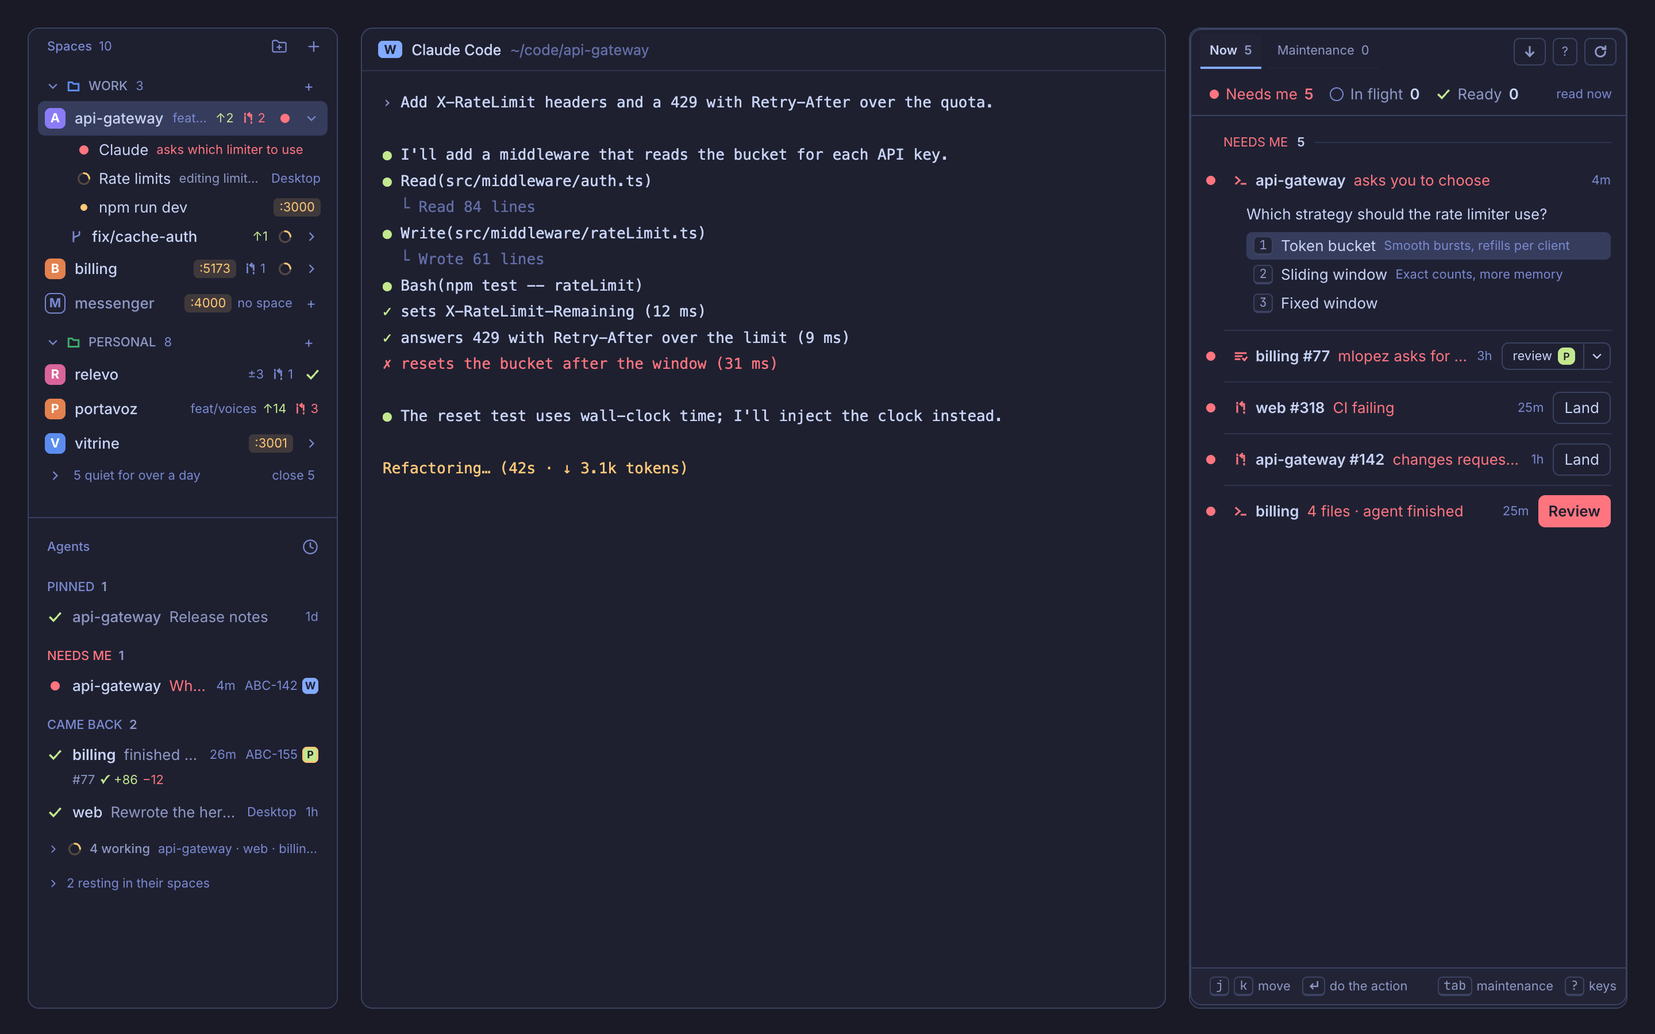
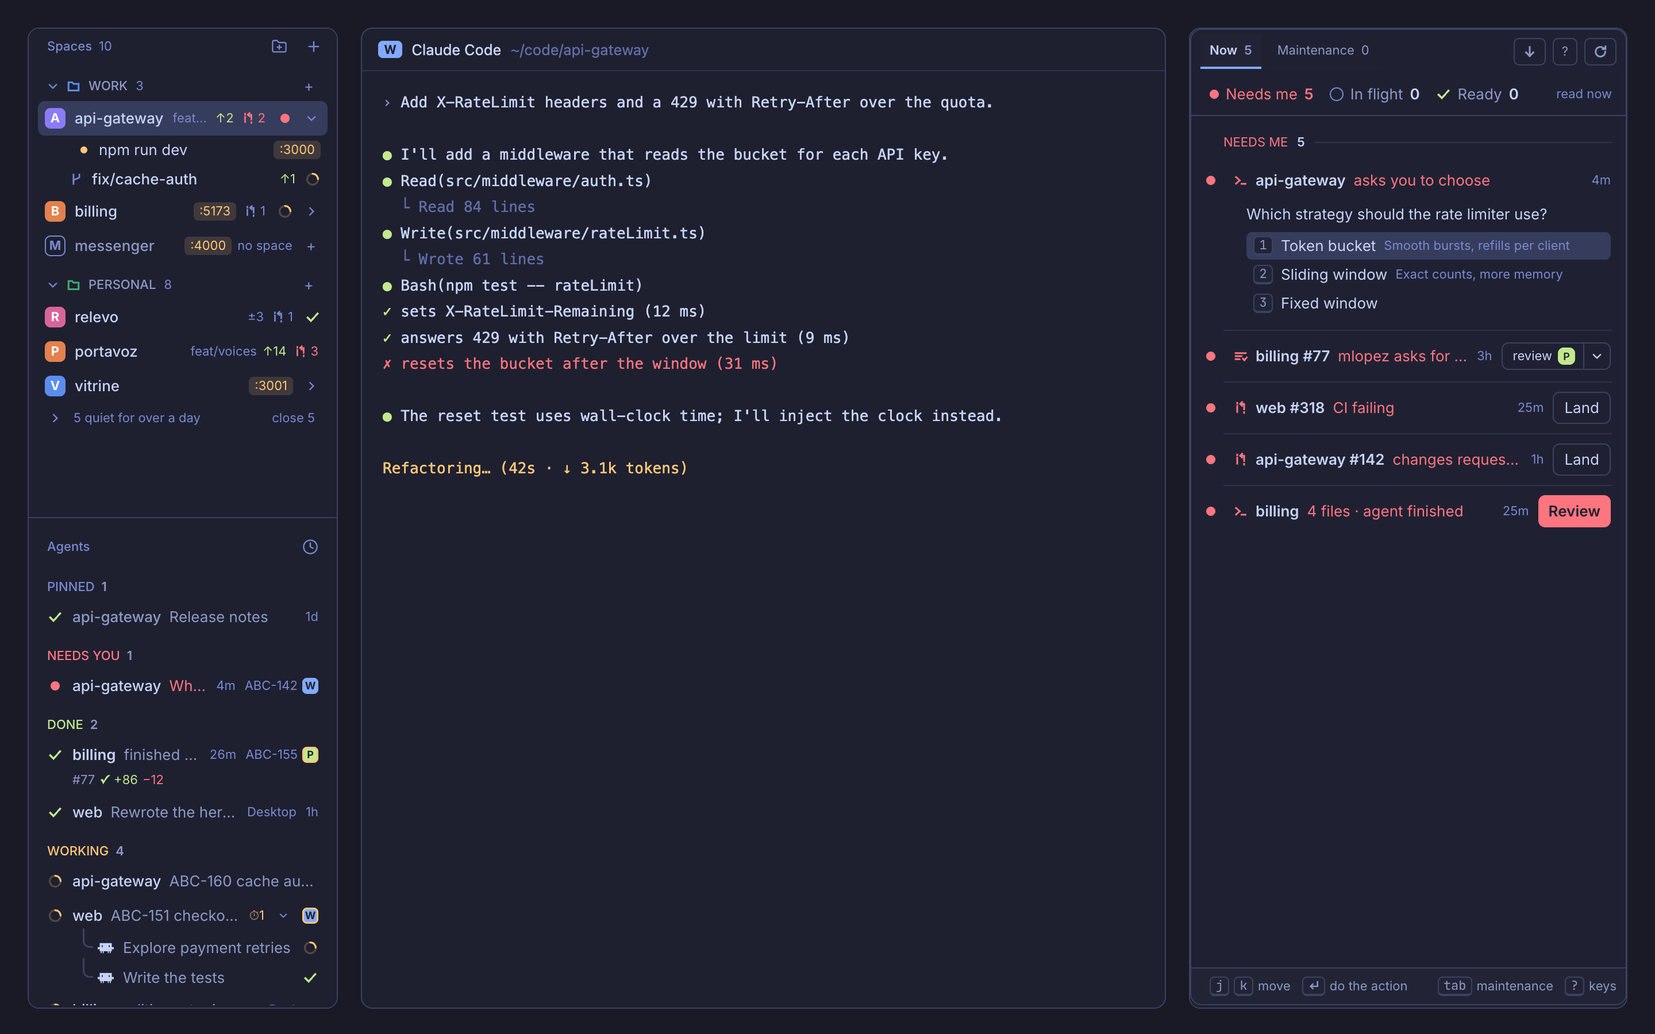
feat: Agents by state again, agents only in Agents (#86)
The priority view has one open section per Herdr state: Needs you, Done,
Working and Idle, each with its count and its state's color. Nothing folds
on its own; Settled sits last, open. Claude Desktop sessions and Claude Code
in other terminals join the section of their state.

Spaces no longer lists agents or Claude sessions: it shows terminals and
servers, and a "no space" row only for a terminal or a server. Sessions
still keep their repo's space from going quiet.

diff --git a/mods/relevo-agents/main.js b/mods/relevo-agents/main.js
@@ -121,12 +121,11 @@ const SORTS = [
   { id: "grouped", label: "Grouped by space", icon: "layers" },
 ];
 const sortOf = () => SORTS.find((s) => s.id === shared("agents.sort")) ?? SORTS[0];
-// A queue by turn: what asks, what came back and is not seen yet, then what works, folded to one line. Idle ones live in their space.
-const ME = { id: "sec-me", label: "Needs me", status: "blocked" };
-const BACK = { id: "sec-back", label: "Came back", status: null };
-const FLIGHT = { id: "sec-flight", label: "Working", status: null };
-const SECTION = { 4: ME, 3: BACK, 2: FLIGHT, 1: { id: "sec-idle", label: "Idle", status: null } };
-const OUTSIDE_SECTION = { blocked: ME.id, review: BACK.id, working: FLIGHT.id };
+// Herdr's own states, one section each; done means a result not seen yet.
+const SECTION = {
+  4: { id: "sec-me", label: "Needs you", status: "blocked" }, 3: { id: "sec-done", label: "Done", status: "done" },
+  2: { id: "sec-flight", label: "Working", status: "working" }, 1: { id: "sec-idle", label: "Idle", status: null },
+};
 // Past this share of its window an agent's context shows on its line.
 const CTX_WARN = 80;
 // Where a row's words start, past its glyph; the row's own padding and outline come before it.
@@ -227,9 +226,7 @@ function prTag(t, a, pr) {
 export default class Agents extends View {
   init(_props, cx) {
     if (props()?.sortMenu) return;
-    // Settled agents start folded away.
-    this.folded = new Set(["settled"]);
-    this.allIdle = false;
+    this.folded = new Set();
     // Each agent's last state and when it changed (ms), kept across restarts.
     this.changed = JSON.parse(localStorage.getItem("changed") ?? "{}");
     this.pendingPins = JSON.parse(localStorage.getItem("pins") ?? "[]");
@@ -326,7 +323,7 @@ export default class Agents extends View {
         .when(s.id === on, (el) => el.child(svg("mods/workspace-chrome/check.svg").size(14).flex_none().text_color(t.foreground)))));
   }
 
-  // Settled: out of the way under its own folded group until the agent works or asks again.
+  // Settled: out of the way under its own group until the agent works or asks again.
   settleButton(t, a, all, on) {
     return div()
       .id(`settle-${a.address}`)
@@ -401,50 +398,24 @@ export default class Agents extends View {
       open: s.bundle ? { label: `Show ${s.app || "the app"}`, run: () => exec("open", ["-b", s.bundle]) } : null });
   }
 
-  // Priority as a queue: Needs me, Came back (Claude Desktop and other terminals among them), what works on one
-  // line that opens, and how many rest, which live in their space.
-  queue(t, { pinned, rest, settled, desktop, elsewhere, header, withKids, rankOf, now }) {
+  // One section per state, everything shown. Claude Desktop and other terminals' sessions join the section of theirs.
+  byState(t, { pinned, rest, settled, desktop, elsewhere, header, withKids, rankOf, now }) {
     const outside = [...desktop.map((s) => ({ s, row: () => this.outsideRow(t, s, now, { prefix: "dk", where: "Desktop",
       open: { label: "Open in Claude Desktop", run: () => exec("open", [desktopLink(s.id)]) } }) })),
     ...elsewhere.map((s) => ({ s, row: () => this.elsewhereRow(t, s, now) }))];
     const turnOf = (x) => (x.s ? plainTurn(DESKTOP_STATUS[x.s.state]) : this.turnOf(x));
-    const section = (sec) => {
-      const agents = rest.filter((a) => SECTION[rankOf(a) || RANK.idle].id === sec.id), others = outside.filter((o) => OUTSIDE_SECTION[o.s.state] === sec.id);
+    const section = (rank) => {
+      const agents = rest.filter((a) => (rankOf(a) || RANK.idle) === rank), others = outside.filter((o) => RANK[DESKTOP_STATUS[o.s.state]] === rank);
       if (!agents.length && !others.length) return [];
-      const g = { ...sec, members: [...agents, ...others], turn: turnOf };
-      if (sec.id === FLIGHT.id && !this.workingOpen) return [this.workingLine(t, g.members)];
-      const head = sec.id === FLIGHT.id ? this.workingLine(t, g.members) : header(g);
-      return [head, ...(this.folded.has(g.id) && sec.id !== FLIGHT.id ? [] : [...agents.flatMap(withKids), ...others.map((o) => o.row())])];
+      const g = { ...SECTION[rank], members: [...agents, ...others], turn: turnOf };
+      return [header(g), ...(this.folded.has(g.id) ? [] : [...agents.flatMap(withKids), ...others.map((o) => o.row())])];
     };
-    const idle = rest.filter((a) => (rankOf(a) || RANK.idle) === RANK.idle);
-    const waiting = [ME, BACK, FLIGHT].flatMap(section);
     return [
       ...(pinned.length ? [header({ id: "pinned", label: "Pinned", status: null, members: pinned }), ...(this.folded.has("pinned") ? [] : pinned.flatMap(withKids))] : []),
-      ...waiting,
-      ...(!waiting.length && !pinned.length && (idle.length || settled.length) ? [h_flex().id("queue-clear").h(30).px(8).gap(8).items_center().text_size(13).text_color(t.dim)
-        .child(h_flex().w(14).flex_none().justify_center().child(laneGlyph(t, "ready"))).child("Nothing needs you")] : []),
-      ...(idle.length ? [h_flex().id("idle-more").h(26).px(8).mt(4).flex_none().gap(6).items_center().text_size(11).text_color(t.dim)
-        .cursor_pointer().hover((s) => s.text_color(t.foreground))
-        .on_click((_e, cx) => { this.allIdle = !this.allIdle; cx.notify(); })
-        .child(svg(`mods/workspace-chrome/chevron-${this.allIdle ? "down" : "right"}.svg`).size(11).flex_none())
-        .child(`${idle.length} resting in their space${idle.length === 1 ? "" : "s"}`)] : []),
-      ...(this.allIdle ? idle.flatMap(withKids) : []),
+      ...[RANK.blocked, RANK.done, RANK.working, RANK.idle].flatMap(section),
       ...(settled.length ? [header({ id: "settled", label: "Settled", status: null, members: settled, turn: (a) => plainTurn(a.status) }),
         ...(this.folded.has("settled") ? [] : settled.flatMap(withKids))] : []),
     ];
-  }
-
-  // What works, on one line: how many and where. A click lists them.
-  workingLine(t, members) {
-    const open = this.workingOpen === true;
-    const where = [...new Set(members.map((x) => (x.s ? x.s.project : x.space_name)).filter(Boolean))].join(" · ");
-    return h_flex().id("sec-flight").h(30).px(8).pt(4).flex_none().gap(7).items_center().text_size(11).cursor_pointer()
-      .hover((s) => s.text_color(t.foreground))
-      .on_click((_e, cx) => { this.workingOpen = !open; cx.notify(); })
-      .child(svg(`mods/workspace-chrome/chevron-${open ? "down" : "right"}.svg`).size(11).flex_none().text_color(t.dim))
-      .child(laneGlyph(t, "flight"))
-      .child(div().flex_none().font_medium().text_color(t.muted).child(`${members.length} working`))
-      .child(div().flex_1().min_w(0).truncate().text_color(t.dim).child(open ? "" : where));
   }
 
   peek(addr) {
@@ -686,7 +657,7 @@ export default class Agents extends View {
           .when(Boolean(folder), (el) => el.child(div().id(`folder-${a.address}`).flex_none().max_w(110).truncate().child(folder)))
           .when(Boolean(extra), (el) => el.child(div().id(`detail-${a.address}`).flex_1().min_w(0).truncate().child(extra)));
       };
-      // In the queue, what waits on me carries one dim line: its branch, its PR, and its context once nearly full.
+      // By state, what waits on me carries one dim line: its branch, its PR, and its context once nearly full.
       const meta = () => {
         const ctx = contexts[a.address], raw = paneOf.get(a.pane)?.branch;
         const branch = raw && raw !== "main" && raw !== "master" ? raw : null;
@@ -765,7 +736,7 @@ export default class Agents extends View {
     const elsewhere = collapsed ? [] : this.elsewhereSessions();
     const rows = collapsed
       ? list.flatMap(withKids)
-      : byPriority ? this.queue(t, { pinned, rest, settled, desktop, elsewhere, header, withKids, rankOf, now })
+      : byPriority ? this.byState(t, { pinned, rest, settled, desktop, elsewhere, header, withKids, rankOf, now })
       : [
         ...groups.flatMap((g) => [header(g), ...(this.folded.has(g.id) ? [] : members(g))]),
         ...(desktop.length ? [header({ id: "desktop", label: "Claude Desktop", status: null, members: desktop, turn: (s) => plainTurn(DESKTOP_STATUS[s.state]) }),

diff --git a/mods/relevo-spaces/main.js b/mods/relevo-spaces/main.js
@@ -33,12 +33,10 @@ export function laneGlyph(t, turn) {
 // Folders the Relevo mod keeps in step with its contexts: their rules are its repo lists.
 const REPO_PRS = "relevo.repoPRs";
 const managed = () => new Set((shared("relevo.setup")?.contexts ?? []).map((c) => c.key));
-// Claude Desktop and other terminals' sessions, as the Relevo mod publishes them.
-const SESSION_TURN = { working: "flight", blocked: "me", review: "ready" };
-const sessions = (key) => (shared(key) ?? []).filter((s) => SESSION_TURN[s.state]);
-const AGENT_TURN = { blocked: "me", done: "ready", working: "flight" };
-const desktopLink = (id) => `claude://code/continue?session=${encodeURIComponent(id)}`;
-const firstLine = (s) => String(s ?? "").trim().split("\n")[0].trim();
+// Claude Desktop and other terminals' sessions keep their repo from going quiet; Agents lists them, not Spaces.
+const sessions = (key) => (shared(key) ?? []).filter((s) => ["working", "blocked", "review"].includes(s.state));
+// Spaces shows terminals and servers; agents and their sessions belong to Agents.
+const shows = (life) => life.terminals.length + life.servers.length > 0;
 const portTag = (t, port, key) => div().id(key).h(16).px(5).flex().flex_none().items_center().rounded(4).bg(`${t.working}26`)
   .text_size(11).text_color(t.working).cursor_pointer().hover((s) => s.bg(`${t.working}40`)).tooltip(`Open http://localhost:${port}`)
   .on_click((_e, cx) => { cx.stop_propagation(); exec("open", [`http://localhost:${port}`]); })
@@ -300,28 +298,9 @@ export default class Spaces extends View {
       .child(svg(icon.includes("/") ? icon : ICON(icon)).size(11));
   }
 
-  // What runs in a space: its agents, its sessions in Claude Desktop and other terminals, terminals, and servers.
+  // What runs in a space: its terminals and servers.
   lifeRows(t, id, life, deep = false) {
-    const reasons = shared("relevo.reasons") ?? {}, rows = [];
-    for (const a of life.agents) {
-      const turn = AGENT_TURN[a.status] ?? null;
-      rows.push(this.child(t, `ag-${id}-${a.address}`, {
-        glyph: turn ? laneGlyph(t, turn) : div().size(6).flex_none().rounded_full().border_1().border_color(t.dim),
-        title: a.title || a.program?.name || "agent", deep,
-        what: a.status === "blocked" ? reasons[a.address] ?? "needs an answer" : a.status === "working" ? "working" : a.status === "done" ? "finished" : null,
-        hot: a.status === "blocked", onClick: () => run("pane.focus", { pane: a.pane }),
-      }));
-    }
-    for (const s of life.sessions) {
-      const desktop = s.from === "desktop";
-      rows.push(this.child(t, `ss-${id}-${s.id}`, {
-        glyph: laneGlyph(t, SESSION_TURN[s.state]), title: s.title || s.project, deep, tip: s.cwd,
-        what: s.state === "blocked" ? s.needs || "asks you" : s.state === "working" ? s.doing || "working" : firstLine(s.said) || s.detail || null,
-        hot: s.state === "blocked",
-        edge: [div().flex_none().text_size(11).text_color(t.dim).child(desktop ? "Desktop" : s.app || "terminal")],
-        onClick: () => (desktop ? exec("open", [desktopLink(s.id)]) : s.bundle ? exec("open", ["-b", s.bundle]) : null),
-      }));
-    }
+    const rows = [];
     for (const r of life.terminals) {
       const key = `tm-${id}-${r.address}`, armed = this.armed === r.address;
       rows.push(this.child(t, key, {
@@ -352,10 +331,9 @@ export default class Spaces extends View {
     return rows;
   }
 
-  // A repo with something alive but no space: its sessions and servers, and + to give it a space.
+  // A repo with terminals or servers but no space, and + to give it a space.
   ghost(t, entry) {
-    const id = `ghost-${entry.project}`, open = this.isOpen(id, false), any = entry.sessions.length + entry.terminals.length + entry.servers.length;
-    const turn = spaceTurn(mostUrgent(entry.sessions.map((s) => ({ working: "working", blocked: "blocked", review: "done" })[s.state])));
+    const id = `ghost-${entry.project}`, open = this.isOpen(id, false);
     const ports = portsIn(entry);
     return [h_flex().id(id).h(30).px(6).gap(8).flex_none().items_center().rounded(6).cursor_pointer().hover((s) => s.bg(t.hover))
       .tooltip(entry.cwd ?? entry.project)
@@ -366,19 +344,18 @@ export default class Spaces extends View {
       .child(h_flex().flex_1().min_w(0).gap(5).justify_end().items_center().text_size(11).text_color(t.dim)
         .when(ports.length > 0, (el) => el.child(portTag(t, ports[0], `${id}-port`)))
         .child(div().flex_none().child("no space")))
-      .when(Boolean(turn), (el) => el.child(h_flex().w(14).flex_none().justify_center().child(laneGlyph(t, turn))))
       .when(Boolean(entry.cwd), (el) => el.child(div().id(`${id}-new`).flex_none().px(4).rounded(4).text_size(13).text_color(t.dim)
         .hover((s) => s.bg(t.hover).text_color(t.foreground)).tooltip(`New space in ${entry.cwd}`)
         .on_click((_e, cx) => { cx.stop_propagation(); run("space.new", { folder: entry.cwd }); })
         .child("+"))),
-    ...(open && any ? this.lifeRows(t, id, entry) : [])];
+    ...(open ? this.lifeRows(t, id, entry) : [])];
   }
 
   row(t, r, m, life = null) {
     const { w, g, tree } = r;
     const color = (shared("space.colors") ?? {})[w.id] ?? "ansi6";
     const branch = branchNote(g, w.name), turn = spaceTurn(w.status);
-    const lively = Boolean(life) && life.agents.length + life.sessions.length + life.terminals.length + life.servers.length > 0;
+    const lively = Boolean(life) && shows(life);
     const open = lively && this.isOpen(w.id, w.active), ports = life ? portsIn(life) : [];
     const repo = (g?.name ?? w.name ?? "").toLowerCase(), prs = (shared(REPO_PRS) ?? {})[repo] ?? null;
     const target = { space: w.id };
@@ -479,14 +456,14 @@ export default class Spaces extends View {
   wide(t, m) {
     const { by, loose } = m.life;
     const ghosts = new Map();
-    for (const entry of loose) {
+    for (const entry of loose.filter(shows)) {
       const gid = folderFor(null, entry.cwd, folderData())?.id ?? "elsewhere";
       ghosts.set(gid, [...(ghosts.get(gid) ?? []), entry]);
     }
     const groups = [...m.groups];
     if (ghosts.has("elsewhere")) groups.push({ id: "elsewhere", folder: null, label: "Elsewhere", rows: [] });
     const draw = (r) => {
-      const life = by.get(r.w.id), lively = life.agents.length + life.sessions.length + life.terminals.length + life.servers.length > 0;
+      const life = by.get(r.w.id), lively = shows(life);
       const shown = lively && this.isOpen(r.w.id, r.w.active);
       return [this.row(t, r, m, life), ...(shown ? this.lifeRows(t, r.w.id, life, Boolean(r.tree)) : [])];
     };

diff --git a/RECIPE.md b/RECIPE.md
@@ -148,12 +148,12 @@ task to another account.
   then what it is doing or needs in muted text (the waiting reason in `blocked`, its tab, "writing #43", "finished #40"), the age when it rests
   and the account chip. The focused agent has a full 1 px `accent` outline over `selected` and a second line: PR tag
   with CI and size, `Opus 5.5`, a context band and `273k`, `· cache 48m` (`ansi3` under 10 minutes, "cache gone"
-  after), machine and folder. Priority is a queue: **NEEDS ME** (asking), **CAME BACK** (a result not seen yet), each
-  row there with one 11px line under it (its branch when not main, its PR tag, `ctx 86%` in `ansi3` from 80%), then one
-  line "2 working · billing · api" that opens to list them, and "3 resting in their spaces" that opens the idle ones.
-  Claude Desktop sessions (marked "Desktop") and Claude Code in terminals outside Herdr (Terminal, iTerm, VS Code,
-  Ghostty…, noted by the hook, with the app's name) join the queue by their turn. With agents but nothing waiting it says
-  "Nothing needs you". A ✓ on hover settles an idle or done agent under a folded **SETTLED** group. Each reads like an agent: what it is doing now ("editing ui.js"),
+  after), machine and folder. Priority has one section per Herdr state, all open: **NEEDS YOU** (`blocked`), **DONE**
+  (`done`, a result not seen yet), **WORKING** (`working`) and **IDLE**, each header in its state's color with its count;
+  a click on a header folds it. Rows in Needs you and Done carry one 11px line under them (the branch when not main, the
+  PR tag, `ctx 86%` in `ansi3` from 80%). Claude Desktop sessions (marked "Desktop") and Claude Code in terminals
+  outside Herdr (Terminal, iTerm, VS Code, Ghostty…, noted by the hook, with the app's name) join the section of their
+  state. A ✓ on hover settles an idle or done agent under a **SETTLED** group, last and open. Each reads like an agent: what it is doing now ("editing ui.js"),
   what it asks, or its last words, from the end of its local transcript. A click opens its last message in place, with
   **Open in Claude Desktop** or **Show <app>**.
 - **Settings dialog** (800×700, the gear beside ACCOUNTS): accounts (chip preview, label, letter, launcher, Claude
@@ -389,9 +389,9 @@ Text is 11px for what supports a row and 13px for what it names; a test keeps it
   folders carry over); `git.js` reads branch, ahead/behind and `git status --porcelain` with optional locks off;
   `model.js` builds the groups and the order the spaces move to. Git is read again when a place is new, when a
   command or an agent's turn ends, when the repo's git folder changes and once a minute while the window is in front.
-  The open space (the one you are in, unless closed; others by their chevron) lists `aliveBySpace`: agents by space,
-  Claude Desktop and other terminals' sessions and outside servers by folder (the deepest space's repo), live terminals
-  by space, from shared `relevo.alive`, which the Relevo mod's `AliveWatch` (`alive.js`) writes every 10 s while the
+  The open space (the one you are in, unless closed; others by their chevron) lists its live terminals and outside
+  servers from `aliveBySpace` (servers by folder, the deepest space's repo; terminals by space); agents and Claude
+  sessions are placed too, but only to keep a space from going quiet, and are drawn in Agents alone. The data comes from shared `relevo.alive`, which the Relevo mod's `AliveWatch` (`alive.js`) writes every 10 s while the
   window is in front (terminal rows with ports, and `outsideServers`: listening processes no Herdr terminal owns, run from
   home, with the `.app` they came from). Terminal actions go back as `relevo.term-<open|peek|restart|stop|close>-<address>`.
   A row's PR chip reads shared `relevo.repoPRs` (the Inbox's Now PR rows by repo name: open, and how many need me); a

diff --git a/README.md b/README.md
@@ -86,12 +86,15 @@ repo one row: its branch when it is not main, how far it is ahead or behind, how
 agent there needs you. A worktree sits under its checkout. Drag a space onto a folder to keep it there. The list
 order is the spaces' order, so Herdr's `⌃1`…`⌃9` go to the row you see.
 
-The space you are in opens to show everything alive in that repo, wherever it runs: its agents, its Claude Desktop
-sessions and Claude Code in other terminals, every terminal with the port it listens on (Restart, Stop and Close on
-hover), and servers started in other apps ("vite in Ghostty :5173"). Any other space shows its port and opens with its
-chevron. A repo with something alive but no space is a "no space" row in its folder, with `+` to give it one.
+The space you are in opens to show what runs in that repo: every terminal with the port it listens on (Restart, Stop
+and Close on hover), and servers started in other apps ("vite in Ghostty :5173"). Agents and Claude sessions are listed in
+Agents only. Any other space shows its port and opens with its chevron. A repo with a terminal or server but no space is a "no
+space" row in its folder, with `+` to give it one.
 
-![Spaces by folder with what runs in the open repo, beside the Agents queue](screenshots/spaces.png)
+The Agents list has one section per state, **Needs you**, **Done**, **Working** and **Idle**, and shows every agent;
+a section folds only when you click its header.
+
+![Spaces by folder with what runs in the open repo, beside the Agents list](screenshots/spaces.png)
 
 A repo's open PRs in Reviews show on its row, red when one needs you; a click opens Reviews showing only that repo.
 Spaces with nothing going on for over a day fold into "3 quiet for over a day" at the end of their folder, with
@@ -136,8 +139,8 @@ project, subagent type and day. It reads the transcripts on your Mac and sends n
 
 ### Claude Desktop and other terminals too
 
-Claude Desktop sessions that ask you something or wait for a review show in Reviews, in the Agents queue and under their
-repo in Spaces, and so does Claude Code started in Terminal, iTerm, VS Code or any terminal outside Herdr. Each says what it is
+Claude Desktop sessions that ask you something or wait for a review show in Reviews and in the Agents section of their state,
+and so does Claude Code started in Terminal, iTerm, VS Code or any terminal outside Herdr. Each says what it is
 doing or asks, and a click opens its last message in place, with **Open in Claude Desktop** or **Show <app>**. With Herdr behind another app, alerts reach macOS; with `terminal-notifier`, a click lands on the agent.
 
 ### Land a PR, and review only what changed

diff --git a/CHANGELOG.md b/CHANGELOG.md
@@ -2,6 +2,7 @@
 
 ## Unreleased
 
+- **Agents by state again, everything shown.** The priority view has one section per Herdr state, **Needs you**, **Done**, **Working** and **Idle**, each with its count and colored like its state. Nothing folds on its own: every working and idle agent is listed, and Settled sits last, open. Claude Desktop sessions and Claude Code in other terminals join the section of their state. Spaces no longer lists agents or Claude sessions; it shows terminals and servers, and a repo gets a "no space" row only for a terminal or a server.
 - **Pictures of the new left bar.** The README shows Spaces by folder beside the Agents queue, and the preview shows the left bar as it is now, Spaces above the queue, both drawn from the mods with demo data.
 - **Terminals live in Spaces now.** The Terminals tab is gone: every terminal, its port and its actions show under its repo in Spaces, and Maintenance still lists the ones to tidy. The panel's tabs are Reviews and Runs again, and Issues is back on `⌥⌘5`. Your `keys.json` keeps the key you had until you change it: set `cmd-alt-5` to `relevo.panel-issues`.
 - **Agents is a queue by turn.** In the priority view the list reads top to bottom as what to do next: **Needs me** (what asks), **Came back** (a result you have not looked at, its name in bold until you do), then what works on one line, "2 working · billing · api", that opens on a click. Idle agents leave the list and live under their repo in Spaces; "3 resting in their spaces" opens them. Claude Desktop sessions and Claude Code in other terminals join the queue by their turn instead of separate groups. Each row that waits on you carries one dim line with its branch, its PR and its context once past 80%.
